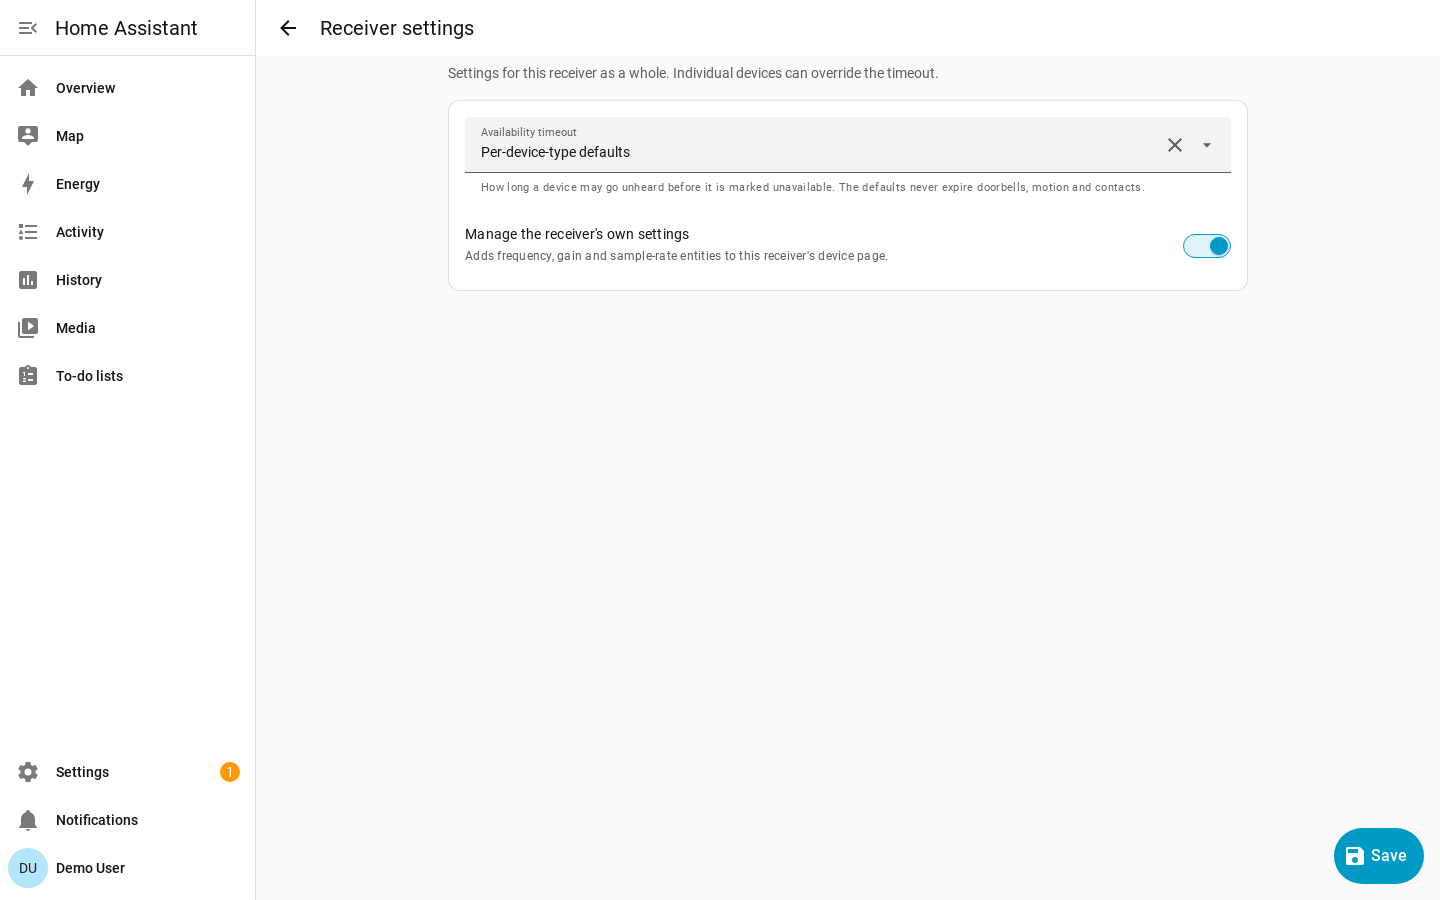
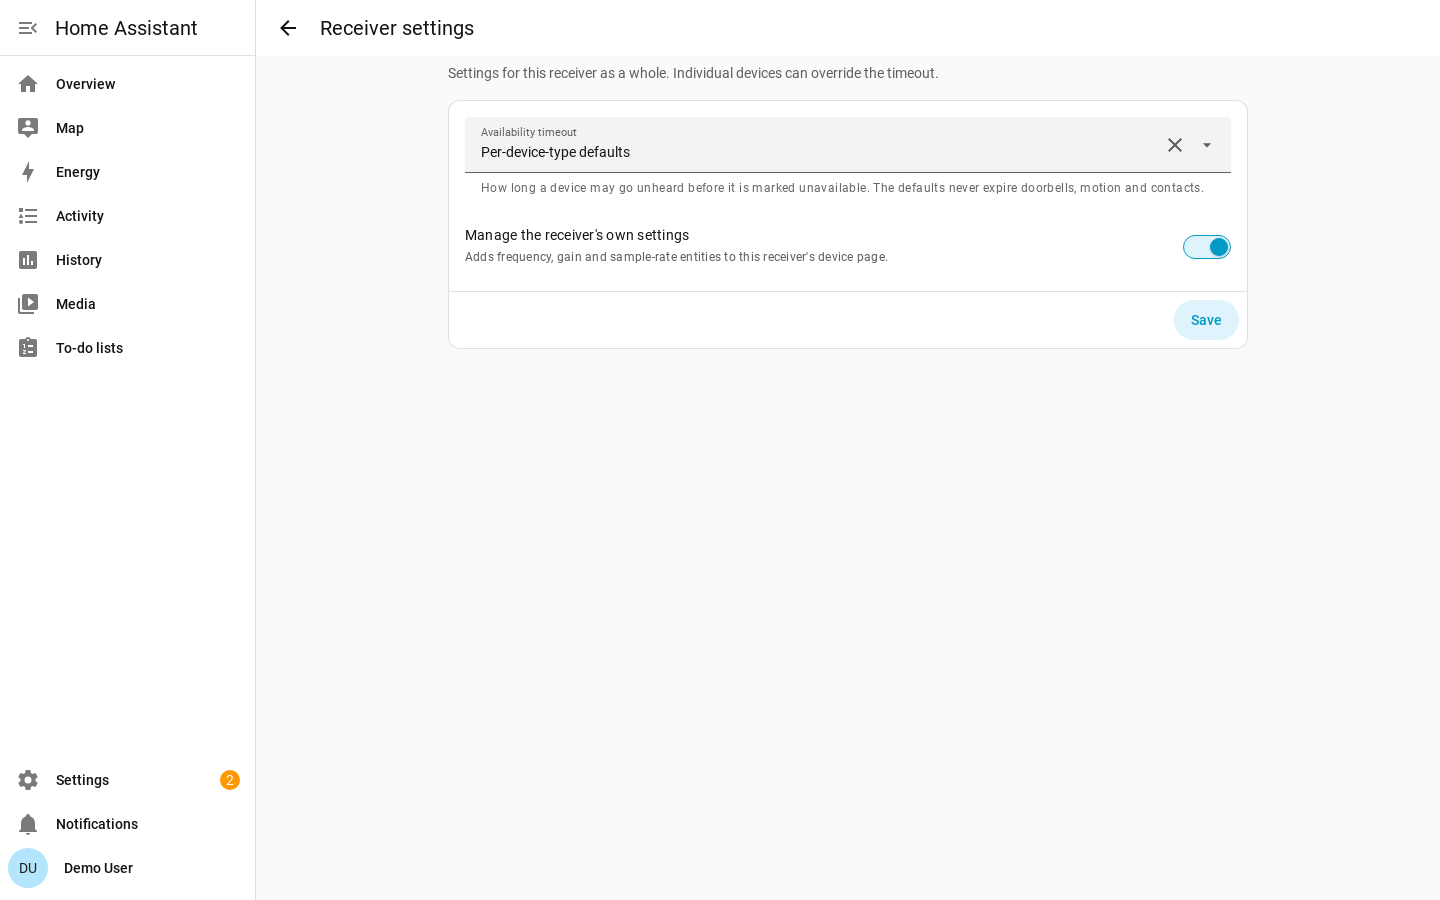
fix(panel): commit settings forms from a card button, not a floating one
The settings pages' Save was a floating action button with a save icon,
fixed to the bottom-right of the viewport. That is core's *create*
affordance, not its commit: every `slot="fab"` in home-assistant/frontend
outside the automation/script/scene document editors belongs to a picker
or dashboard and adds a new thing -- add automation, add zone, add helper,
the Zigbee and Z-Wave dashboards' add buttons. A settings form commits
from a plain `ha-button` in the card's `card-actions` row, right-aligned
and iconless: `ha-config-section-general`, `ha-config-entity-id-format`,
`supervisor-network` and the add-on config forms all do exactly that.
Core's settings forms carry no Cancel either -- that belongs to dialogs.

So the settings card grows a `card-content` row and a `card-actions` row
with core's own measurements (16px and 8px, divider line across the full
card width), and Save sits in the second one. The overview's "Add or
replace device" stays a FAB -- it is an add, which is what the shape is
for.

The action row hides with the button on a form with nothing to save, so a
device page with no devices does not show a rule under an empty form.
`.settings-save` is unchanged, so the screenshot harness still finds it.

The three docs screenshots that show a settings form -- Receiver settings,
Device settings and Device mappings -- are recaptured through the harness,
since all three carried the floating Save pill in the corner. No prose
[…]

diff --git a/custom_components/rtl_433/frontend/rtl_433-panel.js b/custom_components/rtl_433/frontend/rtl_433-panel.js
@@ -156,10 +156,6 @@ const ICON_MAPPINGS =
 /** mdiPlus, for the floating action button. */
 const ICON_PLUS = "M19 13h-6v6h-2v-6H5v-2h6V5h2v6h6v2Z";
 
-/** mdiContentSave, for the settings pages' save button. */
-const ICON_SAVE =
-  "M15 9H5V5h10m-3 14a3 3 0 0 1-3-3 3 3 0 0 1 3-3 3 3 0 0 1 3 3 3 3 0 0 1-3 3m5-16H5a2 2 0 0 0-2 2v14a2 2 0 0 0 2 2h14a2 2 0 0 0 2-2V7l-4-4Z";
-
 /**
  * How the hub's availability timeout is chosen, as three named choices.
  *
@@ -1212,12 +1208,11 @@ class Rtl433Panel extends HTMLElement {
   /**
    * A floating action button: the one thing you came to this page to do.
    *
-   * Zigbee and Z-Wave both put that in a floating button rather than a row --
-   * adopting a device on the overview, and committing the form on a settings
-   * page, which is core's own editor pattern. Floating rather than sitting at
-   * the end of the page because a two-field form leaves the button stranded
-   * halfway up a phone screen, and a long one pushes it off the bottom; fixed,
-   * it is in the same place either way.
+   * Core reserves this shape for *adding* something -- add automation, add
+   * zone, add helper, and the Zigbee and Z-Wave dashboards' own add buttons --
+   * so the overview's "Add or replace device" is the only thing here wearing
+   * it. A form's Save is not an add, and commits from the foot of its card
+   * instead (see the settings page's `card-actions`).
    *
    * `ha-fab` is not registered in this frontend -- checked, not assumed -- so
    * this is built from `ha-button`, which is, using the pill shape and accent
@@ -1541,6 +1536,7 @@ class Rtl433Panel extends HTMLElement {
       settingsHub: root.querySelector(".settings-hub"),
       settingsProblem: root.querySelector(".settings-problem"),
       settingsBody: root.querySelector(".settings-body"),
+      settingsActions: null,
       settingsSave: null,
     };
     Object.assign(this._el, this._buildOverview(root));
@@ -1554,18 +1550,17 @@ class Rtl433Panel extends HTMLElement {
         return nothing;
       })
     );
-    // Save alone, and floating: these stopped being dialogs when they became
-    // pages, and a page is dismissed by the toolbar's back arrow. A Cancel
-    // beside it was a second control for what the arrow already does -- core's
-    // own settings subpages ship the commit and nothing else.
-    this._el.settingsSave = this._buildFab(
-      root.querySelector(".settings-fab-slot"),
-      { label: "Save", icon: ICON_SAVE, onClick: () => this._saveSettings() }
-    );
-    // There are two floating buttons in this shadow root now, so the one that
-    // commits a form keeps a name of its own: the screenshot harness clicks it
-    // by class, and ".panel-fab" would find the overview's as readily.
-    this._el.settingsSave.classList.add("settings-save");
+    // Save alone, and in the card's own action row: a settings form commits
+    // from a plain button in `card-actions` at the foot of its card, which is
+    // what core's own settings sections (`ha-config-section-general`, the
+    // network and add-on config forms) do. A floating action button is core's
+    // *create* affordance -- "add automation", "add zone", the overview's own
+    // "Add or replace device" -- not a form's commit, so Save does not float
+    // and carries no icon. A Cancel beside it would be a second control for
+    // what the toolbar's back arrow already does.
+    this._el.settingsActions = root.querySelector(".settings-actions");
+    this._el.settingsSave = haButton("Save", "primary settings-save", "filled");
+    this._el.settingsActions.append(this._el.settingsSave);
 
     // The two list actions are built rather than templated so they can be Home
     // Assistant's buttons. They are appended in the order they read on the page,
@@ -2562,11 +2557,22 @@ class Rtl433Panel extends HTMLElement {
     };
   }
 
+  /**
+   * Show or hide Save, and with it the action row it sits in.
+   *
+   * The row carries the card's dividing line, so hiding the button alone would
+   * leave a rule under a form with nothing beneath it.
+   */
+  _showSettingsSave(show) {
+    this._el.settingsSave.hidden = !show;
+    this._el.settingsActions.hidden = !show;
+  }
+
   _buildSettingsForm(kind) {
     const body = this._el.settingsBody;
     body.textContent = "";
     this._el.settingsIntro.textContent = "";
-    this._el.settingsSave.hidden = false;
+    this._showSettingsSave(true);
     this._settingsForm = kind;
 
     if (kind === "hub") {
@@ -2576,7 +2582,7 @@ class Rtl433Panel extends HTMLElement {
       if (!this._settings.devices.length) {
         this._el.settingsIntro.textContent =
           "No devices have been added yet. Add one from this page first, and its settings will appear here.";
-        this._el.settingsSave.hidden = true;
+        this._showSettingsSave(false);
         this._settingsData = {};
         return;
       }
@@ -3057,11 +3063,13 @@ const SKELETON = `
   <div class="view view-settings" hidden>
     <p class="settings-intro"></p>
     <div class="settings-card-slot">
-      <h2 class="settings-hub" hidden></h2>
-      <div class="settings-problem" hidden></div>
-      <div class="settings-body"></div>
+      <div class="card-content">
+        <h2 class="settings-hub" hidden></h2>
+        <div class="settings-problem" hidden></div>
+        <div class="settings-body"></div>
+      </div>
+      <div class="card-actions settings-actions"></div>
     </div>
-    <div class="settings-fab-slot"></div>
   </div>
 
   <div class="replace-slot"></div>
@@ -3413,18 +3421,27 @@ const STYLES = `
    * to collect a trailing margin. Setting it to display:contents generates no
    * box for it at all, leaving the fixed button exactly where it was.
    */
-  .fab-slot, .settings-fab-slot { display: contents; }
-  /*
-   * Room under a settings form for the floating Save to sit over: without it
-   * the button covers the last field of a long one (the mappings editor).
-   */
-  .view-settings { padding-bottom: 88px; }
+  .fab-slot { display: contents; }
   .settings-card-slot {
-    padding: 16px;
     border-radius: var(--ha-card-border-radius, 12px);
     background: var(--card-background-color, #ffffff);
     border: 1px solid var(--divider-color, #e0e0e0);
   }
+  /*
+   * The card's content and action rows, with core's own measurements: ha-card
+   * pads its content by 16px and its action row by 8px, and the action row is
+   * separated by a dividing line that has to run the full width of the card --
+   * which is why the padding lives on these rows and not on the card itself.
+   */
+  .card-content { padding: 16px; }
+  .card-actions {
+    display: flex;
+    justify-content: flex-end;
+    align-items: center;
+    padding: 8px;
+    border-top: 1px solid var(--divider-color, #e0e0e0);
+  }
+  .card-actions[hidden] { display: none; }
   .settings-intro {
     margin: 0 0 16px;
     max-width: 68ch;
@@ -3567,13 +3584,6 @@ const STYLES = `
     z-index: 1;
   }
   ha-button.panel-fab { --ha-button-height: 56px; }
-  /*
-   * ha-fab and ha-button both set their own display, which beats the user
-   * agent's [hidden] rule -- so the settings Save, which hides itself on a form
-   * with nothing to save, needs this to actually disappear. (No backticks in
-   * here: this comment is inside a template literal, and one would end it.)
-   */
-  .panel-fab[hidden] { display: none; }
   button.fab-button {
     display: inline-flex;
     align-items: center;
@@ -3714,7 +3724,7 @@ const STYLES = `
    */
   @media (max-width: 600px) {
     :host { padding: 8px; }
-    .settings-card-slot { padding: 12px; }
+    .card-content { padding: 12px; }
   }
 
 `;
